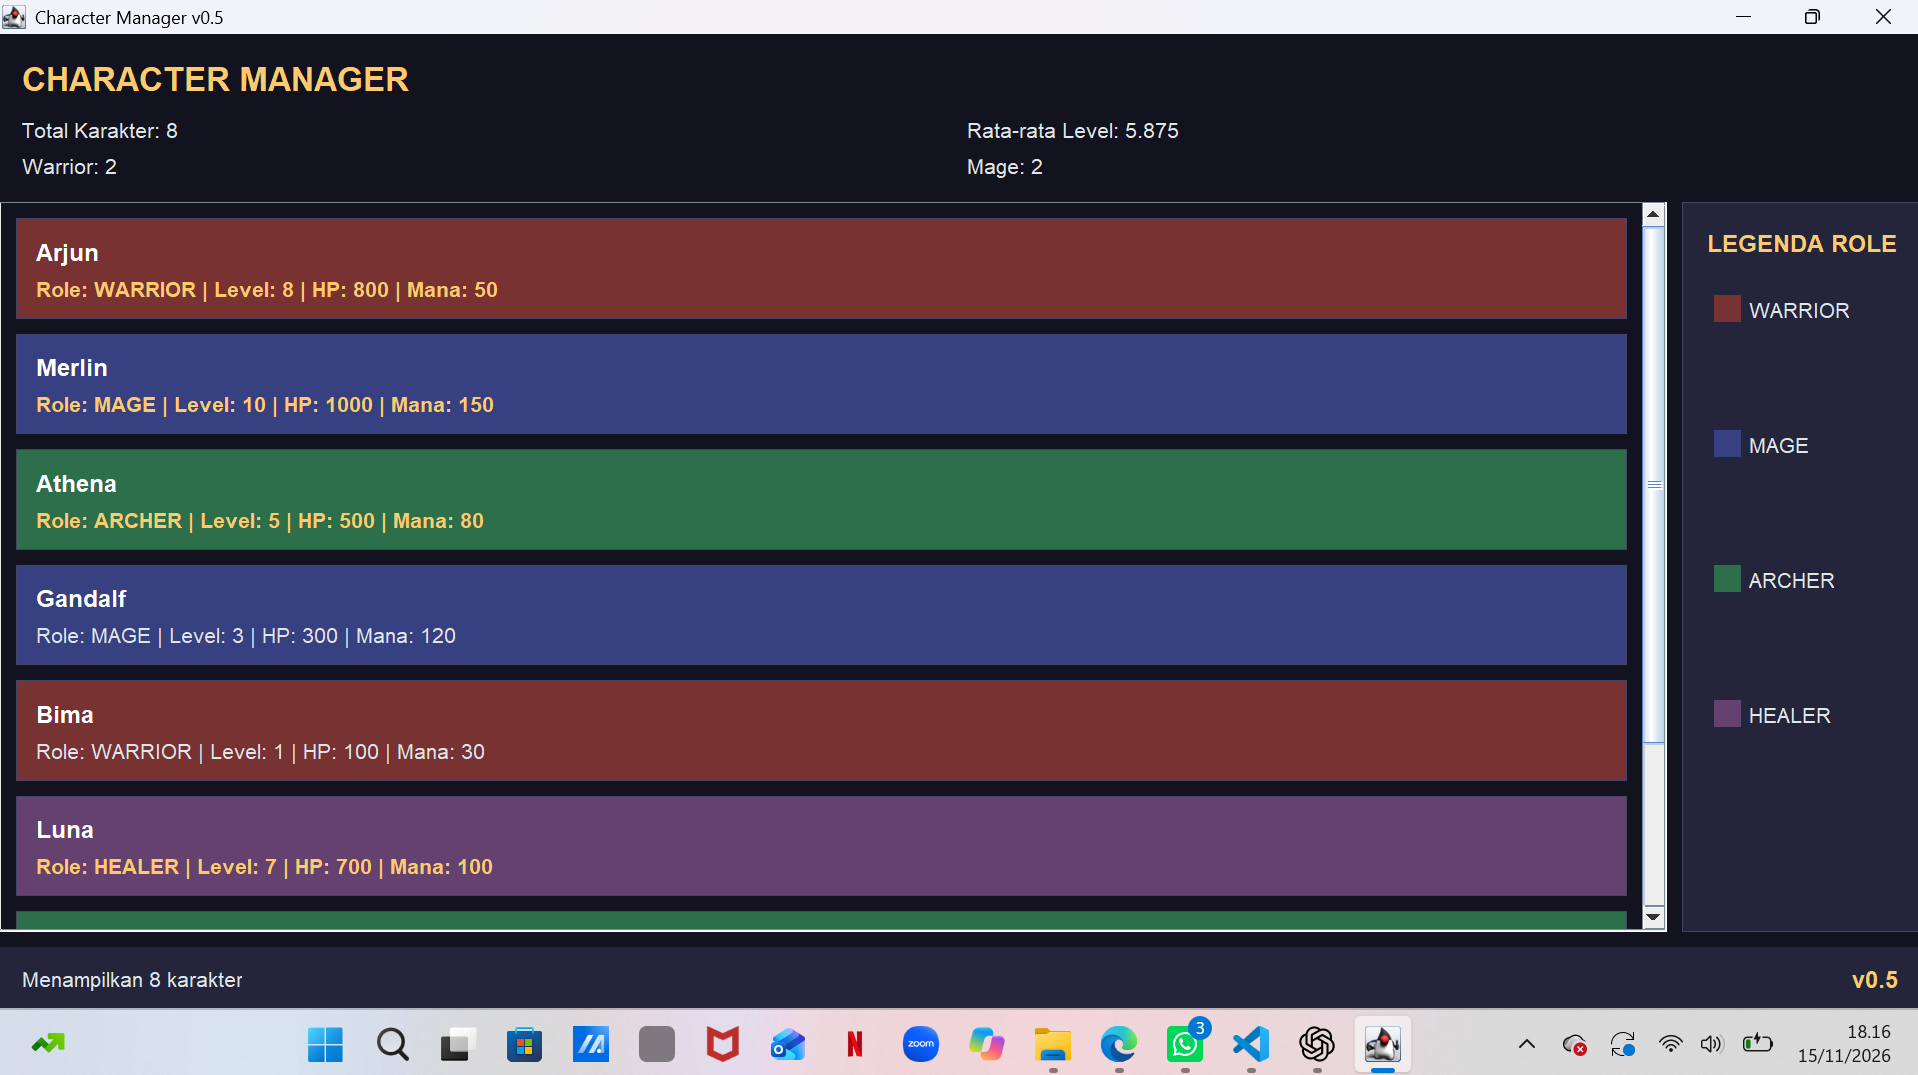
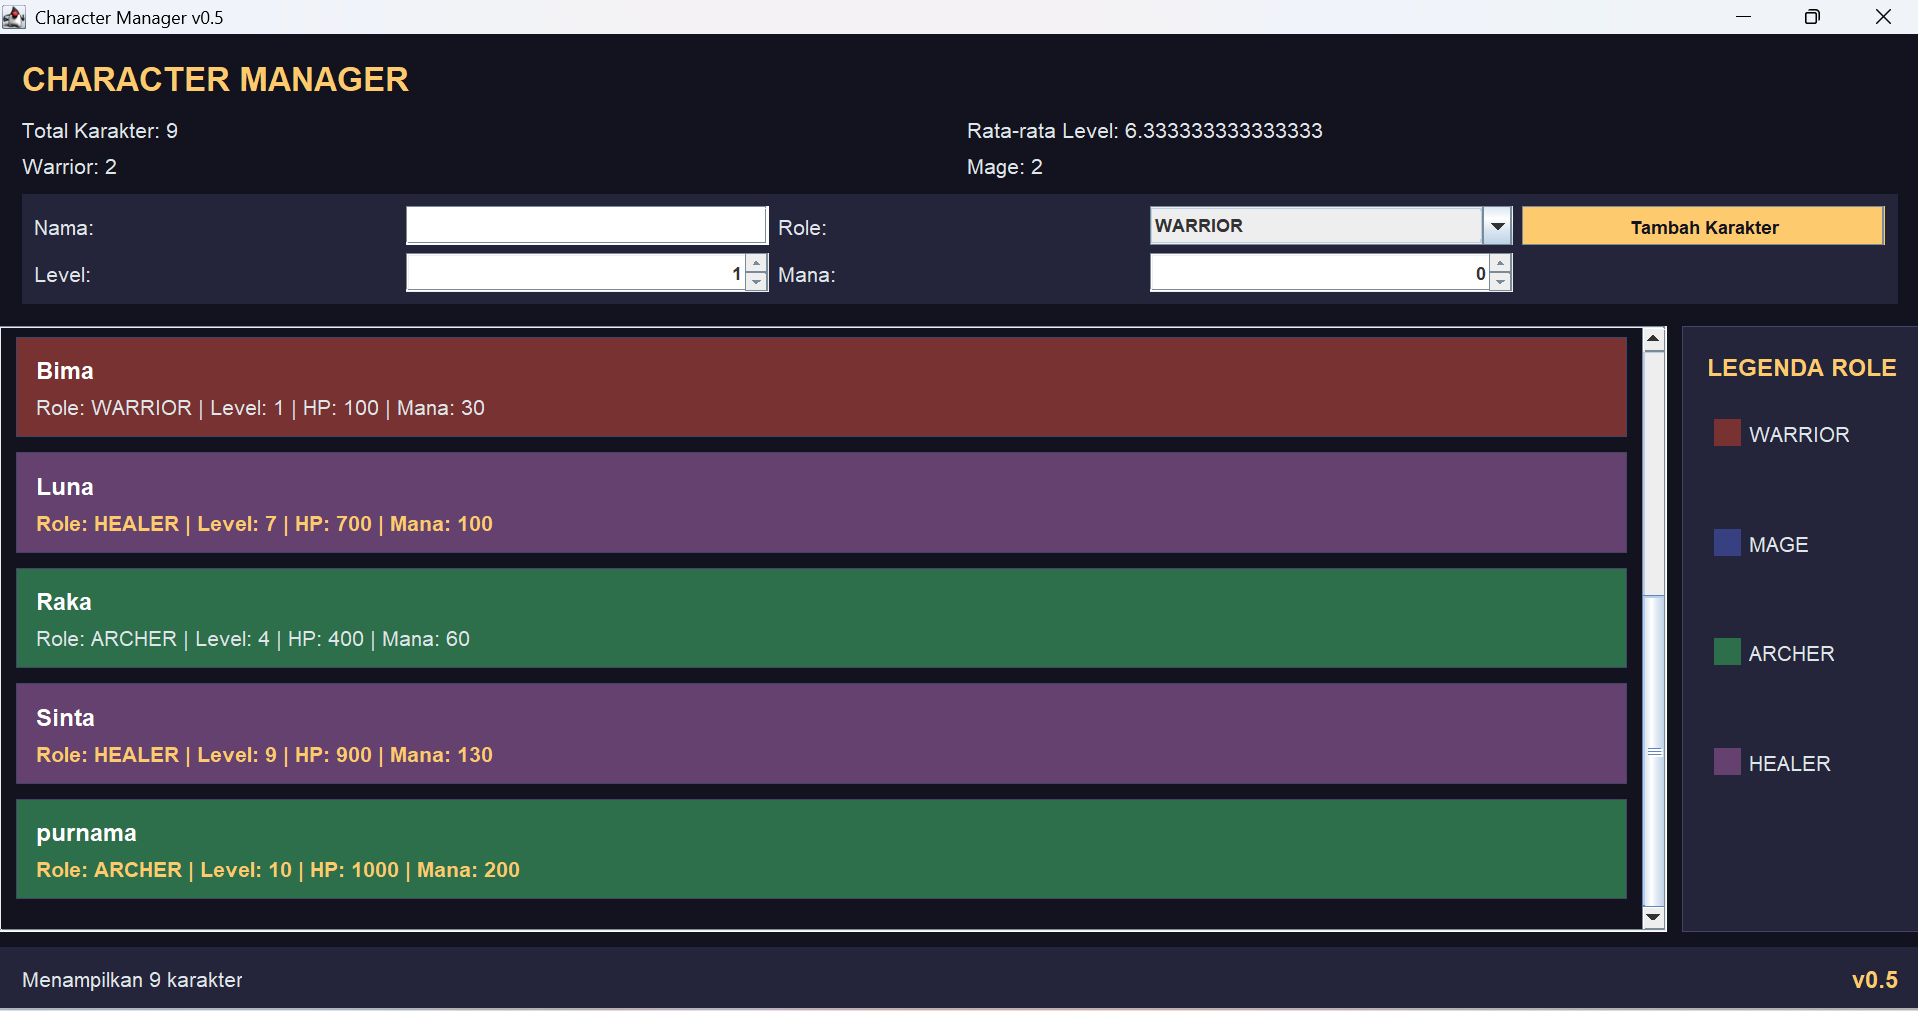
feat(sprint-5): add character form and responsive layout

diff --git a/src/com/unpri/charactermanager/view/MainWindow.java b/src/com/unpri/charactermanager/view/MainWindow.java
@@ -3,19 +3,23 @@ package com.unpri.charactermanager.view;
 import com.unpri.charactermanager.model.Character;
 import com.unpri.charactermanager.model.CharacterManager;
 import com.unpri.charactermanager.model.CharacterType;
-
 import java.awt.BorderLayout;
 import java.awt.Dimension;
 import java.awt.FlowLayout;
 import java.awt.GridLayout;
-
 import javax.swing.BorderFactory;
 import javax.swing.Box;
 import javax.swing.BoxLayout;
+import javax.swing.JButton;
+import javax.swing.JComboBox;
 import javax.swing.JFrame;
 import javax.swing.JLabel;
+import javax.swing.JOptionPane;
 import javax.swing.JPanel;
 import javax.swing.JScrollPane;
+import javax.swing.JSpinner;
+import javax.swing.JTextField;
+import javax.swing.SpinnerNumberModel;
 import javax.swing.border.EmptyBorder;
 
 public class MainWindow extends JFrame {
@@ -31,6 +35,12 @@ public class MainWindow extends JFrame {
     private JLabel averageLabel;
     private JLabel warriorLabel;
     private JLabel mageLabel;
+
+    // Komponen form tambah karakter
+    private JTextField nameField;
+    private JComboBox<CharacterType> typeCombo;
+    private JSpinner levelSpinner;
+    private JSpinner manaSpinner;
 
     public MainWindow(CharacterManager manager) {
 
@@ -52,7 +62,7 @@ public class MainWindow extends JFrame {
 
         refreshCharacters();
 
-        setMinimumSize(new Dimension(650, 400));
+        setMinimumSize(new Dimension(750, 500));
 
         pack();
         setLocationRelativeTo(null);
@@ -60,7 +70,7 @@ public class MainWindow extends JFrame {
     }
 
     // =====================================
-    // HEADER DAN PANEL STATISTIK
+    // HEADER, STATISTIK DAN FORM TAMBAH
     // =====================================
 
     private JPanel createHeader() {
@@ -79,7 +89,7 @@ public class MainWindow extends JFrame {
 
         header.add(title, BorderLayout.NORTH);
 
-        // Panel statistik tambahan GridLayout 2x2
+        // Panel statistik GridLayout 2x2
         JPanel statistics = new JPanel(
             new GridLayout(2, 2, 10, 5)
         );
@@ -98,7 +108,84 @@ public class MainWindow extends JFrame {
 
         header.add(statistics, BorderLayout.CENTER);
 
+        // Form tambah karakter
+        JPanel formPanel = new JPanel(
+            new GridLayout(2, 5, 6, 5)
+        );
+
+        formPanel.setBackground(AppTheme.BG_CARD);
+
+        formPanel.setBorder(
+            new EmptyBorder(8, 8, 8, 8)
+        );
+
+        // Input nama
+        JLabel nameText = createFormLabel("Nama:");
+        nameField = new JTextField(10);
+
+        // Pilihan role
+        JLabel typeText = createFormLabel("Role:");
+        typeCombo = new JComboBox<>(CharacterType.values());
+
+        // Input level
+        JLabel levelText = createFormLabel("Level:");
+        levelSpinner = new JSpinner(
+            new SpinnerNumberModel(1, 1, 100, 1)
+        );
+
+        // Input mana
+        JLabel manaText = createFormLabel("Mana:");
+        manaSpinner = new JSpinner(
+            new SpinnerNumberModel(0, 0, 1000, 10)
+        );
+
+        // Tombol tambah
+        JButton addButton = new JButton("Tambah Karakter");
+
+        addButton.setBackground(AppTheme.GOLD);
+        addButton.setForeground(AppTheme.BG_MAIN);
+        addButton.setFocusPainted(false);
+
+        // Baris pertama
+        formPanel.add(nameText);
+        formPanel.add(nameField);
+        formPanel.add(typeText);
+        formPanel.add(typeCombo);
+        formPanel.add(addButton);
+
+        // Baris kedua
+        formPanel.add(levelText);
+        formPanel.add(levelSpinner);
+        formPanel.add(manaText);
+        formPanel.add(manaSpinner);
+        formPanel.add(new JLabel(""));
+
+        // Aksi tombol
+        addButton.addActionListener(e -> tambahKarakter());
+
+        header.add(formPanel, BorderLayout.SOUTH);
+
         return header;
+    }
+
+    private JLabel createStatLabel(String text) {
+
+        JLabel label = new JLabel(text);
+
+        label.setForeground(AppTheme.TEXT_MAIN);
+        label.setFont(AppTheme.FONT_BODY);
+
+        return label;
+    }
+
+    private JLabel createFormLabel(String text) {
+
+        JLabel label = new JLabel(text);
+
+        label.setForeground(AppTheme.TEXT_MAIN);
+        label.setFont(AppTheme.FONT_BODY);
+
+        return label;
     }
 
     // =====================================
@@ -119,15 +206,12 @@ public class MainWindow extends JFrame {
             new EmptyBorder(10, 10, 10, 10)
         );
 
-        // Panel pembungkus
         JPanel wrapper = new JPanel(new BorderLayout());
 
         wrapper.setBackground(AppTheme.BG_MAIN);
 
-        // Daftar karakter berada di NORTH
         wrapper.add(characterPanel, BorderLayout.NORTH);
 
-        // ScrollPane membungkus panel wrapper
         JScrollPane scroll = new JScrollPane(wrapper);
 
         scroll.setPreferredSize(
@@ -178,7 +262,6 @@ public class MainWindow extends JFrame {
 
         legend.add(Box.createVerticalStrut(20));
 
-        // Mengambil seluruh role dari enum
         for (CharacterType type : CharacterType.values()) {
 
             JPanel item = new JPanel(
@@ -210,9 +293,7 @@ public class MainWindow extends JFrame {
 
             legend.add(item);
 
-            legend.add(
-                Box.createVerticalStrut(10)
-            );
+            legend.add(Box.createVerticalStrut(10));
         }
 
         legend.add(Box.createVerticalGlue());
@@ -248,37 +329,95 @@ public class MainWindow extends JFrame {
         versionLabel.setForeground(AppTheme.GOLD);
         versionLabel.setFont(AppTheme.FONT_SUBTITLE);
 
-        // Status kiri
-        statusBar.add(
-            statusLabel,
-            BorderLayout.WEST
-        );
-
-        // Versi kanan
-        statusBar.add(
-            versionLabel,
-            BorderLayout.EAST
-        );
+        statusBar.add(statusLabel, BorderLayout.WEST);
+        statusBar.add(versionLabel, BorderLayout.EAST);
 
         return statusBar;
     }
 
     // =====================================
-    // LABEL STATISTIK
+    // FUNGSI TAMBAH KARAKTER
     // =====================================
 
-    private JLabel createStatLabel(String text) {
+    private void tambahKarakter() {
 
-        JLabel label = new JLabel(text);
+        String nama = nameField.getText().trim();
 
-        label.setForeground(AppTheme.TEXT_MAIN);
-        label.setFont(AppTheme.FONT_BODY);
+        CharacterType tipe =
+            (CharacterType) typeCombo.getSelectedItem();
 
-        return label;
+        int level = (Integer) levelSpinner.getValue();
+
+        int mana = (Integer) manaSpinner.getValue();
+
+        // Validasi nama kosong
+        if (nama.isEmpty()) {
+
+            JOptionPane.showMessageDialog(
+                this,
+                "Nama karakter tidak boleh kosong!",
+                "Peringatan",
+                JOptionPane.WARNING_MESSAGE
+            );
+
+            nameField.requestFocus();
+            return;
+        }
+
+        // Validasi nama duplikat
+        if (manager.findByName(nama) != null) {
+
+            JOptionPane.showMessageDialog(
+                this,
+                "Karakter dengan nama tersebut sudah ada!",
+                "Karakter Duplikat",
+                JOptionPane.WARNING_MESSAGE
+            );
+
+            nameField.requestFocus();
+            return;
+        }
+
+        try {
+
+            Character karakterBaru = new Character(
+                nama,
+                tipe,
+                level,
+                mana
+            );
+
+            manager.addCharacter(karakterBaru);
+
+            // Kosongkan form setelah berhasil
+            nameField.setText("");
+            typeCombo.setSelectedIndex(0);
+            levelSpinner.setValue(1);
+            manaSpinner.setValue(0);
+
+            // Perbarui daftar dan statistik
+            refreshCharacters();
+
+            JOptionPane.showMessageDialog(
+                this,
+                "Karakter berhasil ditambahkan!",
+                "Berhasil",
+                JOptionPane.INFORMATION_MESSAGE
+            );
+
+        } catch (IllegalArgumentException e) {
+
+            JOptionPane.showMessageDialog(
+                this,
+                e.getMessage(),
+                "Kesalahan",
+                JOptionPane.ERROR_MESSAGE
+            );
+        }
     }
 
     // =====================================
-    // MENAMPILKAN KARTU KARAKTER
+    // MEMPERBARUI KARTU DAN STATISTIK
     // =====================================
 
     private void refreshCharacters() {
@@ -305,7 +444,6 @@ public class MainWindow extends JFrame {
                 new Dimension(Integer.MAX_VALUE, 85)
             );
 
-            // Nama karakter
             JLabel name = new JLabel(
                 character.getName()
             );
@@ -313,7 +451,6 @@ public class MainWindow extends JFrame {
             name.setForeground(AppTheme.TEXT_LIGHT);
             name.setFont(AppTheme.FONT_SUBTITLE);
 
-            // Informasi karakter
             JLabel details = new JLabel(
                 "Role: " + character.getType()
                 + " | Level: " + character.getLevel()
@@ -324,7 +461,6 @@ public class MainWindow extends JFrame {
             details.setForeground(AppTheme.TEXT_MAIN);
             details.setFont(AppTheme.FONT_BODY);
 
-            // Level 5 ke atas menggunakan warna emas
             if (character.getLevel() >= 5) {
 
                 details.setForeground(AppTheme.GOLD);
@@ -340,7 +476,6 @@ public class MainWindow extends JFrame {
                 Box.createVerticalStrut(10)
             );
 
-            // Menghitung jumlah role
             if (character.getType() == CharacterType.WARRIOR) {
                 warrior++;
             }
@@ -373,7 +508,6 @@ public class MainWindow extends JFrame {
             "Menampilkan " + total + " karakter"
         );
 
-        // Memperbarui tampilan Swing
         characterPanel.revalidate();
         characterPanel.repaint();
     }
